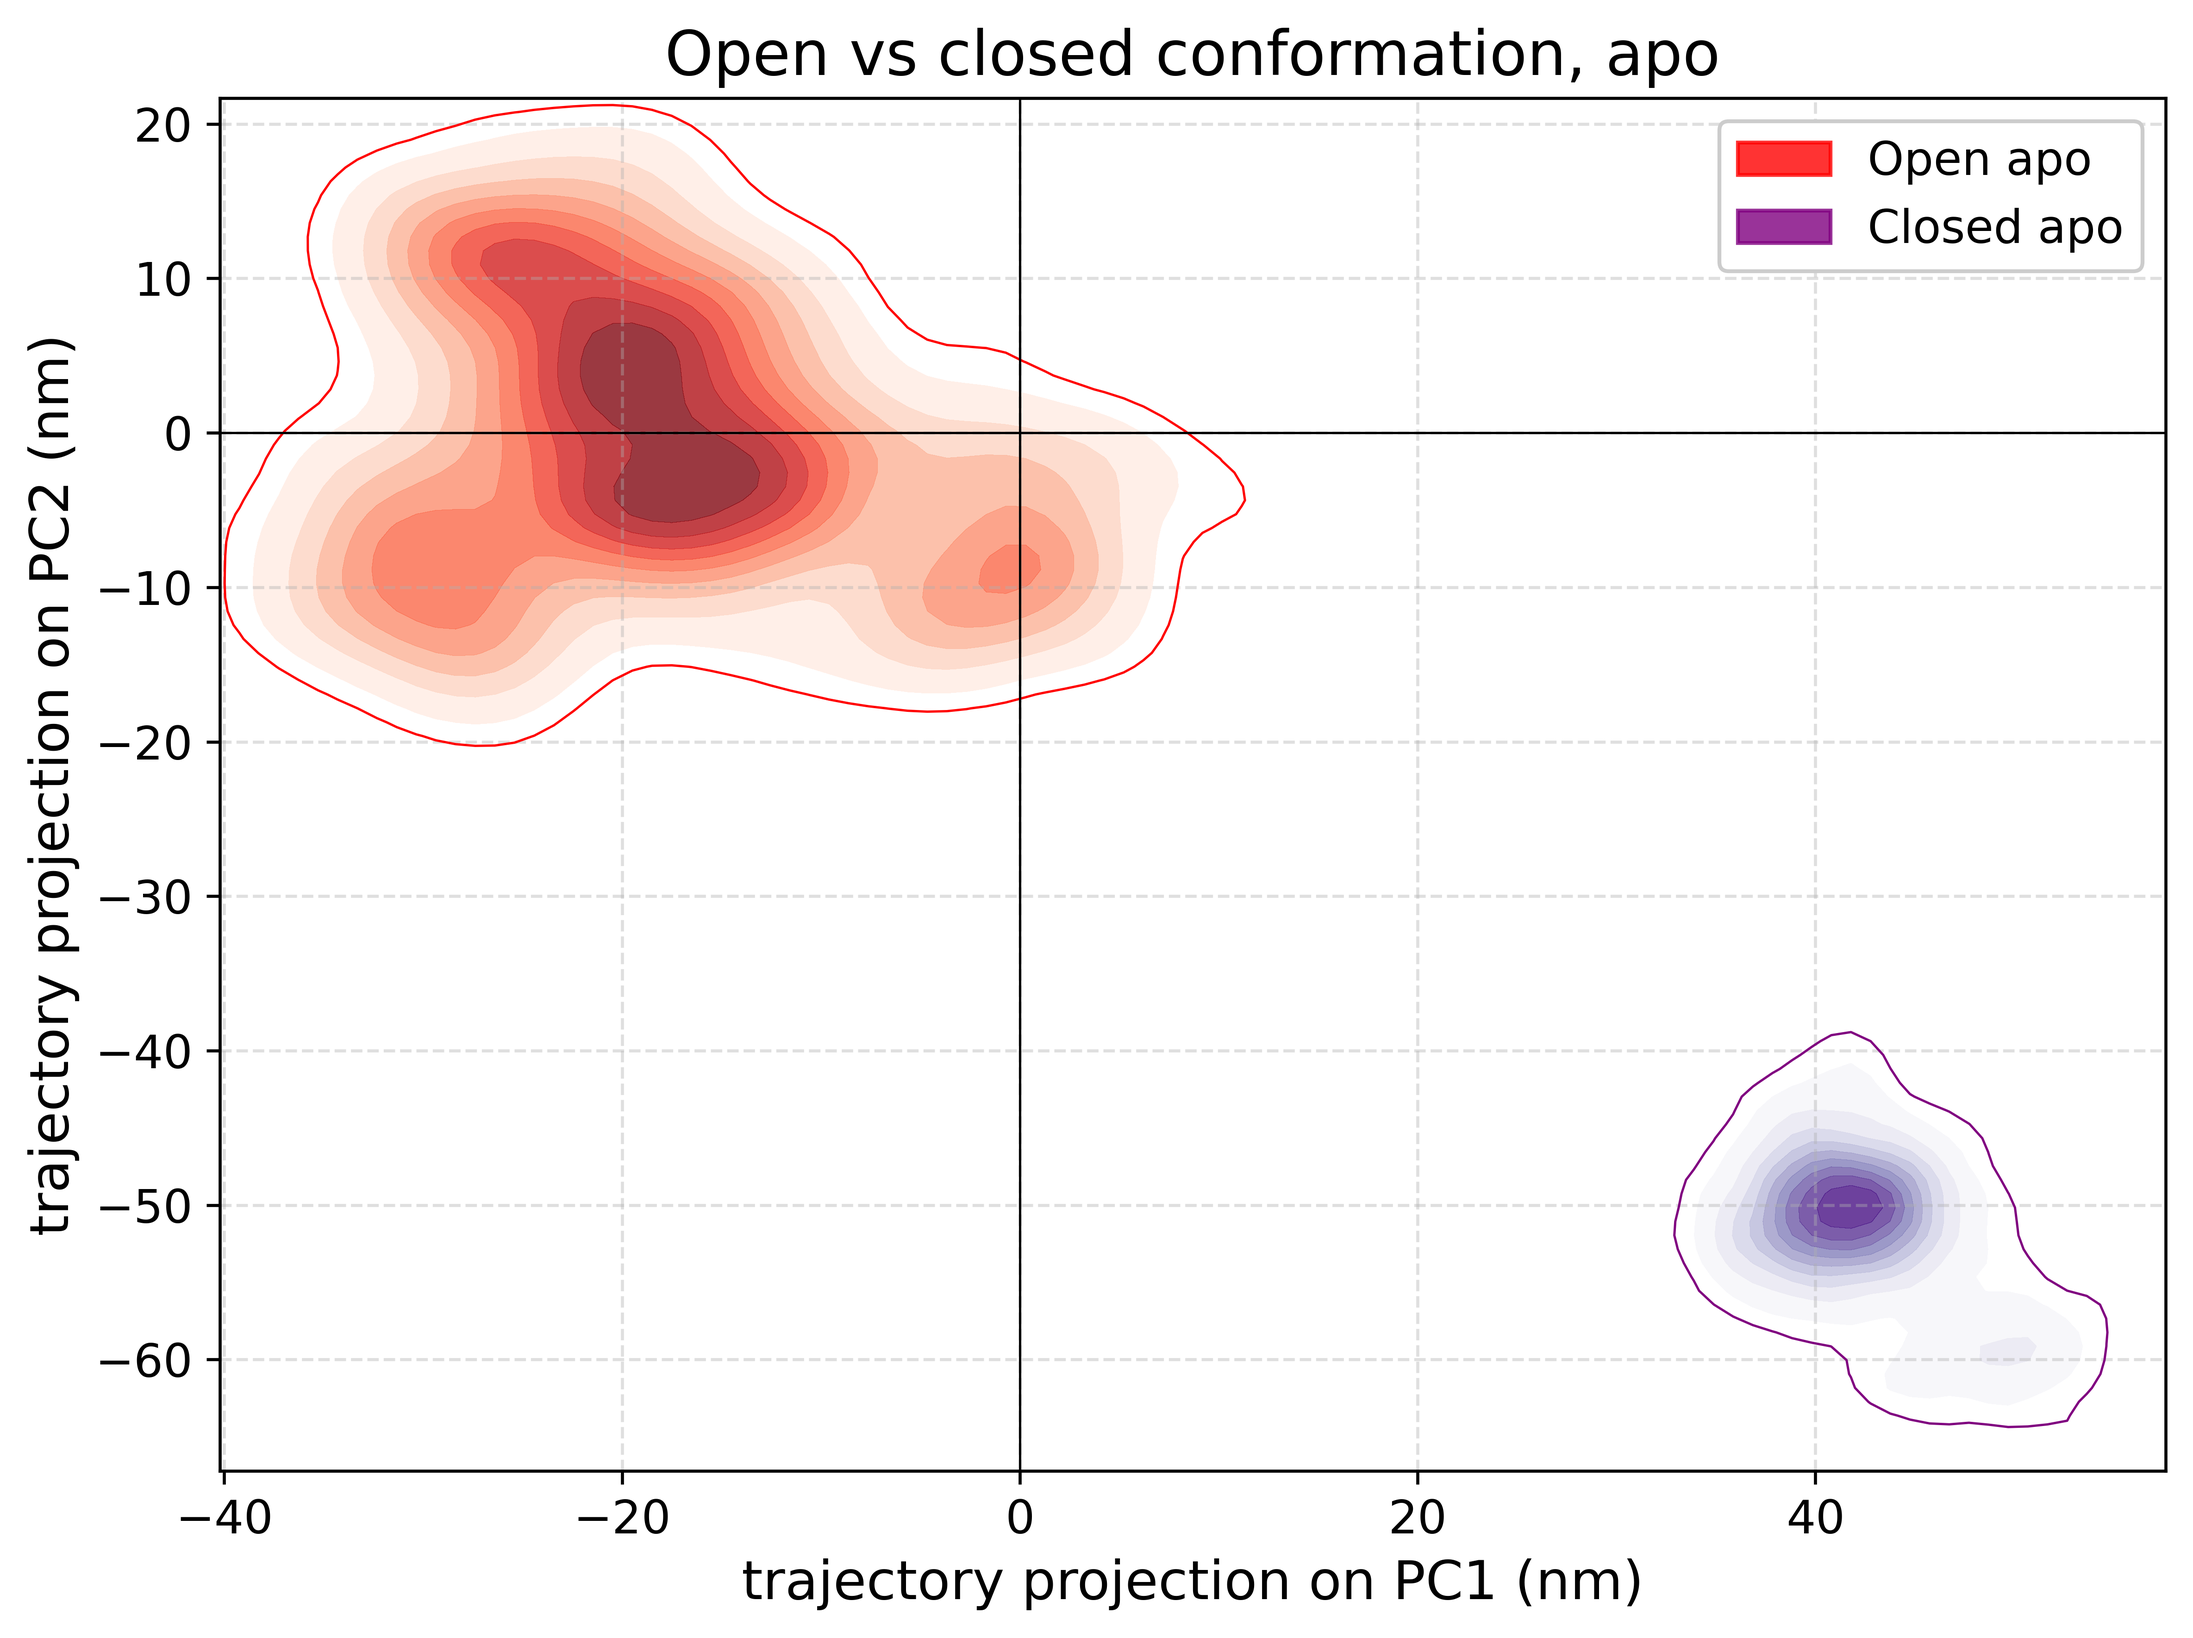
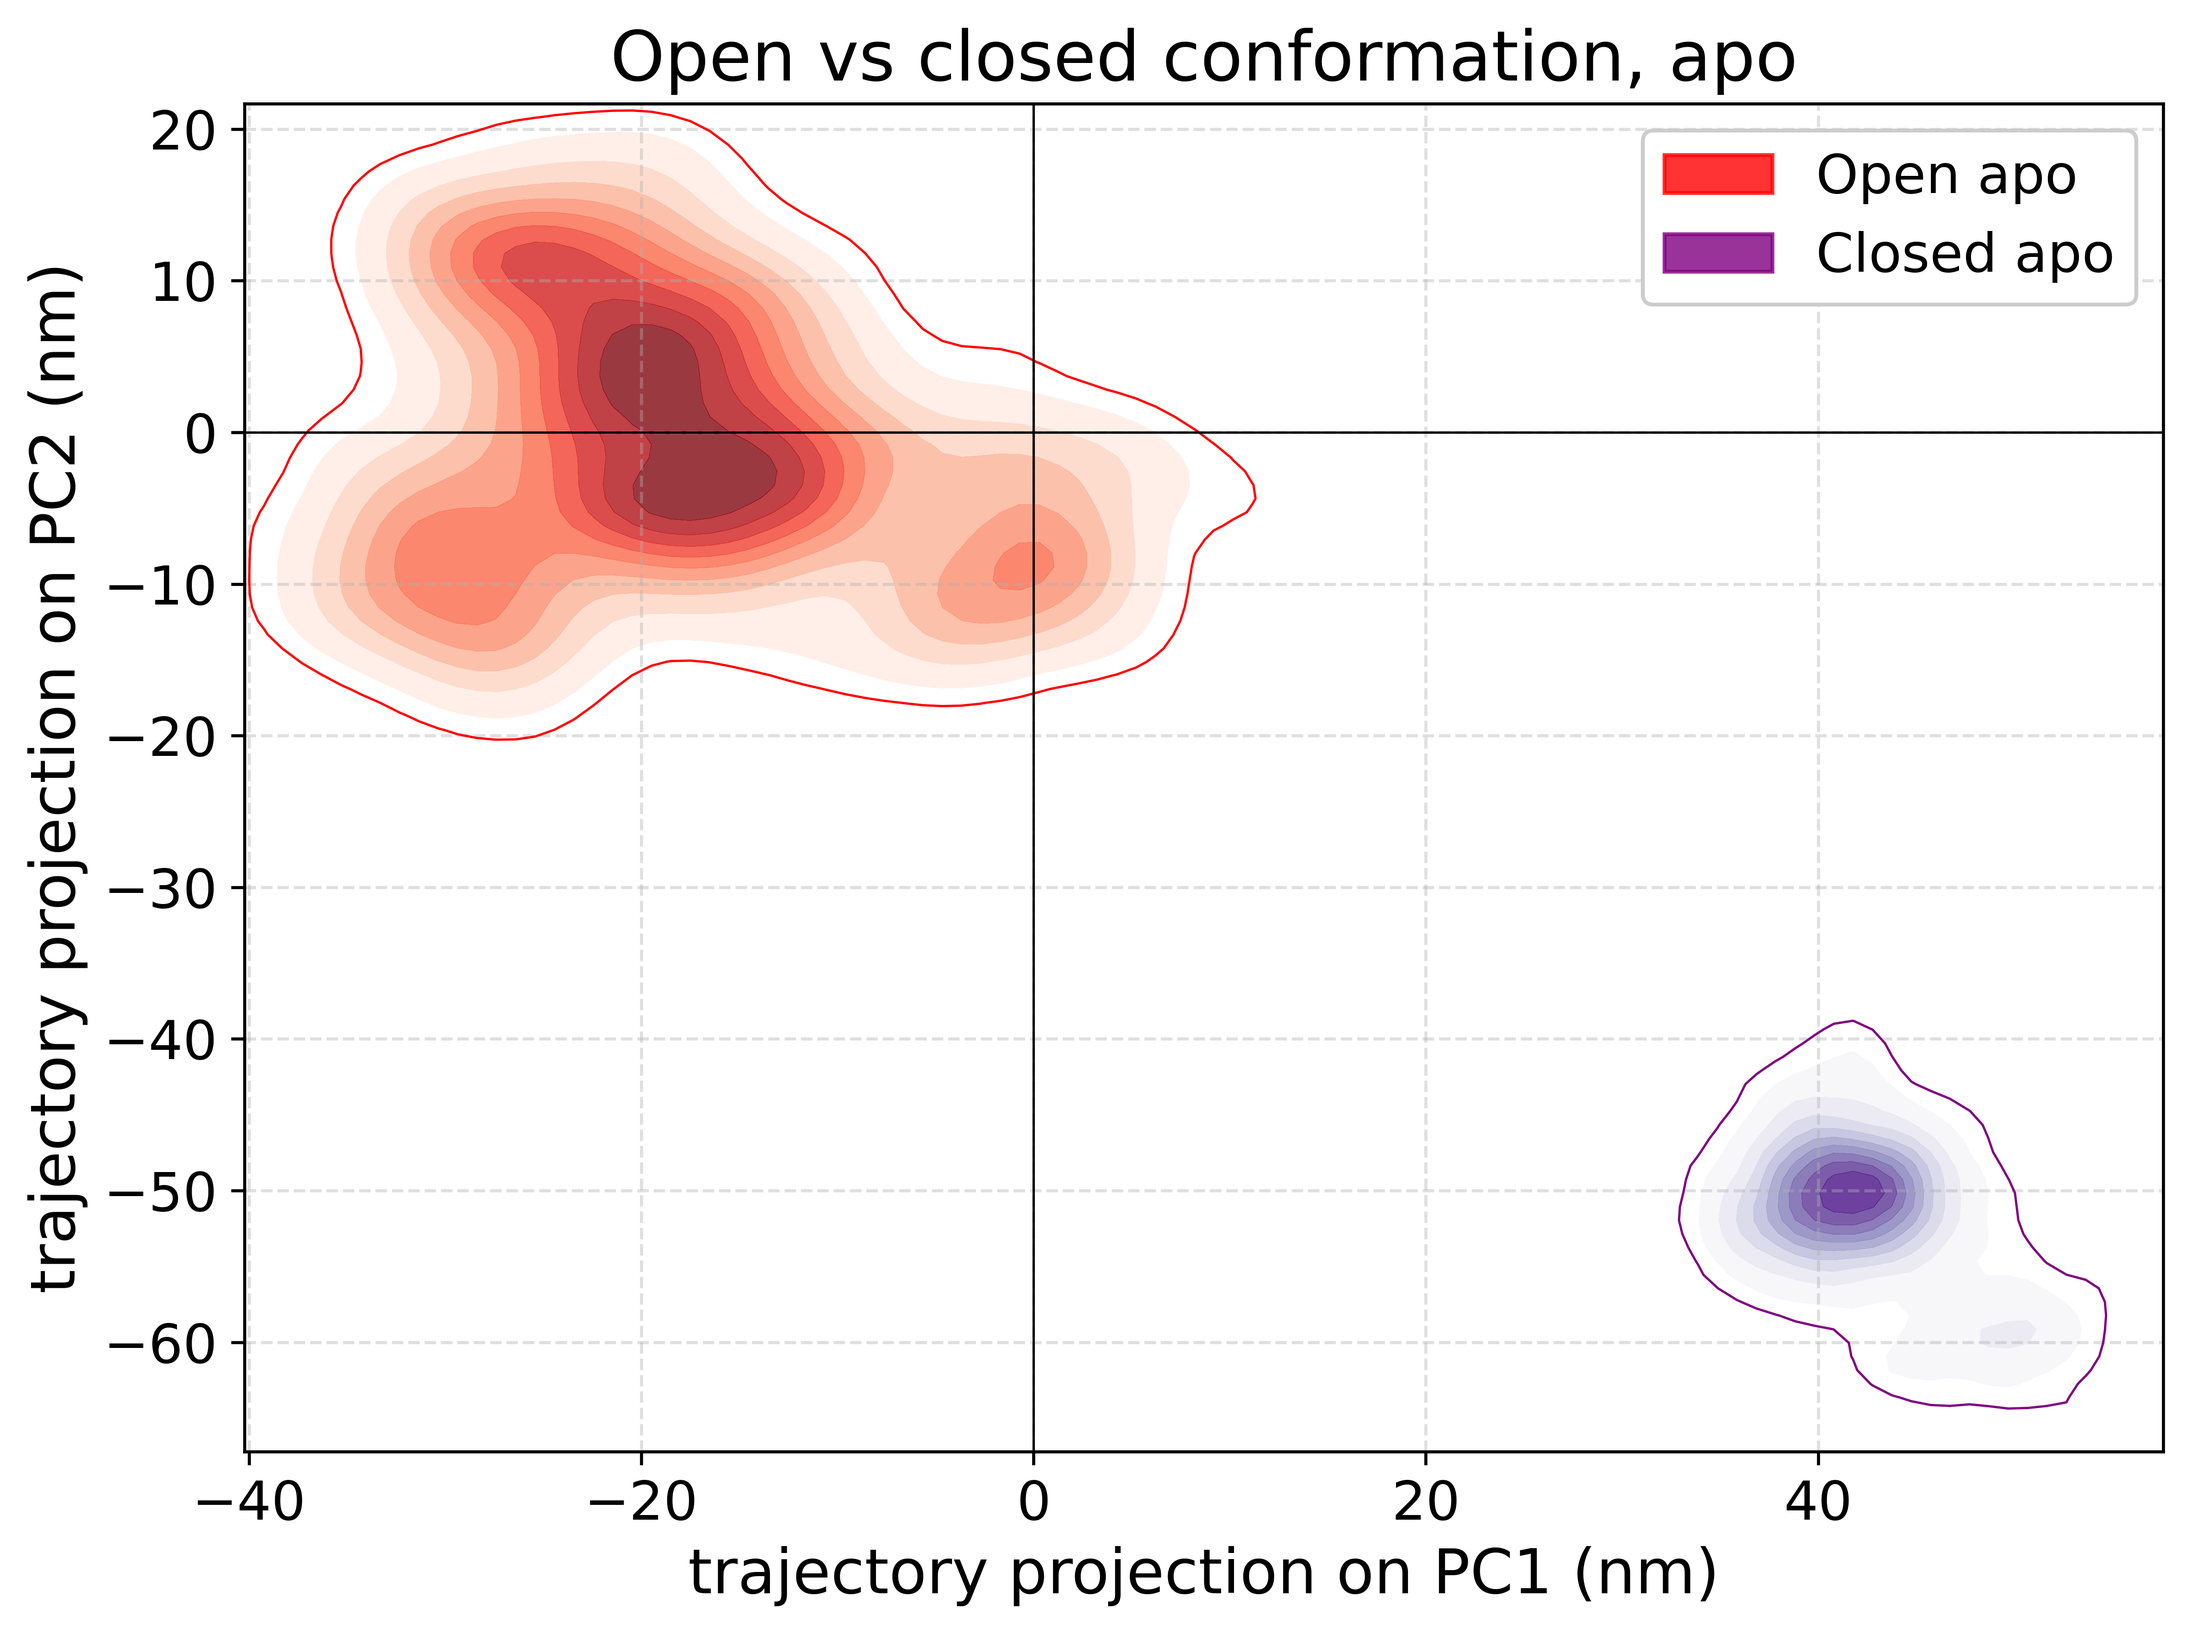
improved figures

diff --git a/scripts-analysis/plot-2d-projections-pca_compare-systems.py b/scripts-analysis/plot-2d-projections-pca_compare-systems.py
@@ -144,10 +144,10 @@ for task in tasks:
     # --------------------------------------------------
     # Plotting
     # --------------------------------------------------
-    LABEL_SIZE = 14
-    TITLE_SIZE = 16
-    LEGEND_SIZE = 12
-    TICK_SIZE = 12
+    LABEL_SIZE = 16
+    TITLE_SIZE = 18
+    LEGEND_SIZE = 14
+    TICK_SIZE = 14
     
     plt.figure(figsize=(8, 6))
 
